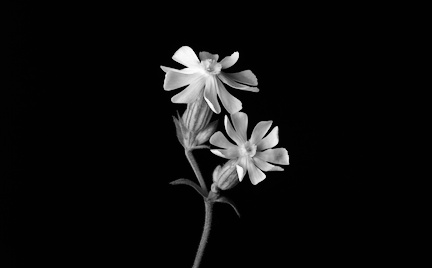
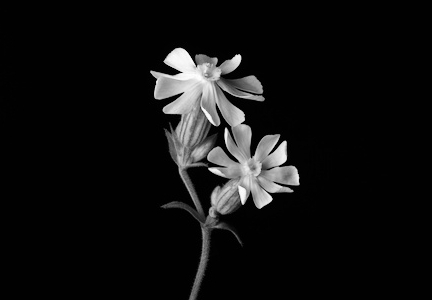
fix images dimensions

Changed region(s): [[0.331, 0.1493, 0.6921, 1.0]]

diff --git a/index.html b/index.html
@@ -28,14 +28,7 @@
 	<noscript><link rel="stylesheet" href="/assets/css/noscript.min.css" /></noscript>
 	
 
-	<style>
-		
-		.gallery.style2 article .image img {
-			height: 386px;
-			object-fit: cover;
-		}
-
-	</style>
+	
 </head>
 
 
